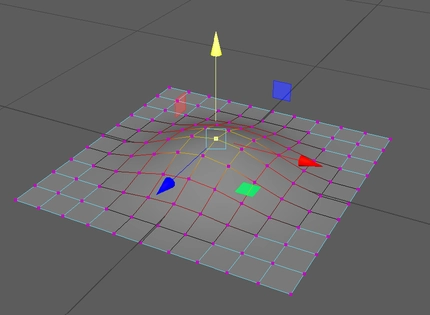
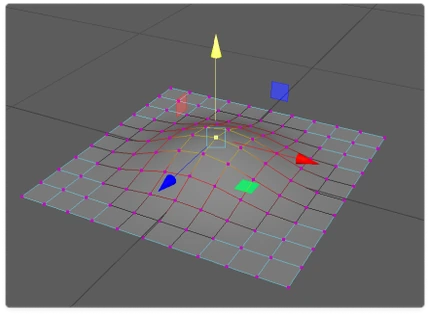
Re-export detail images at 3x for sharper retina display.
Refresh Figma exports and replace 2x assets with 3x PNG/WebP variants across problem, discovery, and gizmo sections.

diff --git a/detail.html b/detail.html
@@ -160,7 +160,7 @@
                   <source
                     type="image/webp"
                     srcset="
-                      ./assets/detail/problem-grid-178@2x.webp 722w,
+                      ./assets/detail/problem-grid-178@3x.webp 1083w,
                       ./assets/detail/problem-grid-178.webp 361w
                     "
                     sizes="(max-width: 520px) min(100vw, 807px), 361px"
@@ -168,7 +168,7 @@
                   <img
                     src="./assets/detail/problem-grid-178.png"
                     srcset="
-                      ./assets/detail/problem-grid-178@2x.png 722w,
+                      ./assets/detail/problem-grid-178@3x.png 1083w,
                       ./assets/detail/problem-grid-178.png 361w
                     "
                     sizes="(max-width: 520px) min(100vw, 807px), 361px"
@@ -185,7 +185,7 @@
                   <source
                     type="image/webp"
                     srcset="
-                      ./assets/detail/problem-deform-294@2x.webp 860w,
+                      ./assets/detail/problem-deform-294@3x.webp 1290w,
                       ./assets/detail/problem-deform-294.webp 430w
                     "
                     sizes="(max-width: 520px) min(100vw, 807px), 430px"
@@ -193,7 +193,7 @@
                   <img
                     src="./assets/detail/problem-deform-294.png"
                     srcset="
-                      ./assets/detail/problem-deform-294@2x.png 860w,
+                      ./assets/detail/problem-deform-294@3x.png 1290w,
                       ./assets/detail/problem-deform-294.png 430w
                     "
                     sizes="(max-width: 520px) min(100vw, 807px), 430px"
@@ -211,7 +211,7 @@
                 <source
                   type="image/webp"
                   srcset="
-                    ./assets/detail/problem-gizmos-291@2x.webp 1614w,
+                    ./assets/detail/problem-gizmos-291@3x.webp 2421w,
                     ./assets/detail/problem-gizmos-291.webp 807w
                   "
                   sizes="min(100vw, 807px)"
@@ -219,7 +219,7 @@
                 <img
                   src="./assets/detail/problem-gizmos-291.png"
                   srcset="
-                    ./assets/detail/problem-gizmos-291@2x.png 1614w,
+                    ./assets/detail/problem-gizmos-291@3x.png 2421w,
                     ./assets/detail/problem-gizmos-291.png 807w
                   "
                   sizes="min(100vw, 807px)"
@@ -261,19 +261,29 @@
           </div>
 
           <figure class="detail__figure detail__discovery-image">
-            <img
-              src="./assets/detail/discovery-839.png"
-              srcset="
-                ./assets/detail/discovery-839@2x.png 1678w,
-                ./assets/detail/discovery-839.png 839w
-              "
-              sizes="(max-width: 900px) 100vw, min(839px, 100%)"
-              width="839"
-              height="882"
-              alt="Team synthesis from gizmo tool exploration: positive traits like progressive reveal and intuitive rotation, and negatives like cluttered UI and latency."
-              loading="lazy"
-              decoding="async"
-            />
+            <picture>
+              <source
+                type="image/webp"
+                srcset="
+                  ./assets/detail/discovery-839@3x.webp 2517w,
+                  ./assets/detail/discovery-839.webp 839w
+                "
+                sizes="(max-width: 900px) 100vw, min(839px, 100%)"
+              />
+              <img
+                src="./assets/detail/discovery-839.png"
+                srcset="
+                  ./assets/detail/discovery-839@3x.png 2517w,
+                  ./assets/detail/discovery-839.png 839w
+                "
+                sizes="(max-width: 900px) 100vw, min(839px, 100%)"
+                width="839"
+                height="882"
+                alt="Team synthesis from gizmo tool exploration: positive traits like progressive reveal and intuitive rotation, and negatives like cluttered UI and latency."
+                loading="lazy"
+                decoding="async"
+              />
+            </picture>
           </figure>
         </section>
 
@@ -349,7 +359,7 @@
 
         <!--
           Max width 839px (Figma) so wide monitors do not upscale the bitmap.
-          WebP q98 first; PNG fallback. sizes capped so srcset matches layout width.
+          WebP q92 first; PNG fallback. 1x + 3x srcset for sharp retina/high-DPI displays.
         -->
         <div
           class="detail__media detail__media--static"
@@ -359,7 +369,7 @@
             <source
               type="image/webp"
               srcset="
-                ./assets/detail/gizmo-content-70-637@2x.webp 1678w,
+                ./assets/detail/gizmo-content-70-637@3x.webp 2517w,
                 ./assets/detail/gizmo-content-70-637@1x.webp  839w
               "
               sizes="min(100vw, 839px)"
@@ -368,7 +378,7 @@
               class="detail__media__img"
               src="./assets/detail/gizmo-content-70-637.png"
               srcset="
-                ./assets/detail/gizmo-content-70-637@2x.png 1678w,
+                ./assets/detail/gizmo-content-70-637@3x.png 2517w,
                 ./assets/detail/gizmo-content-70-637.png    839w
               "
               sizes="min(100vw, 839px)"
